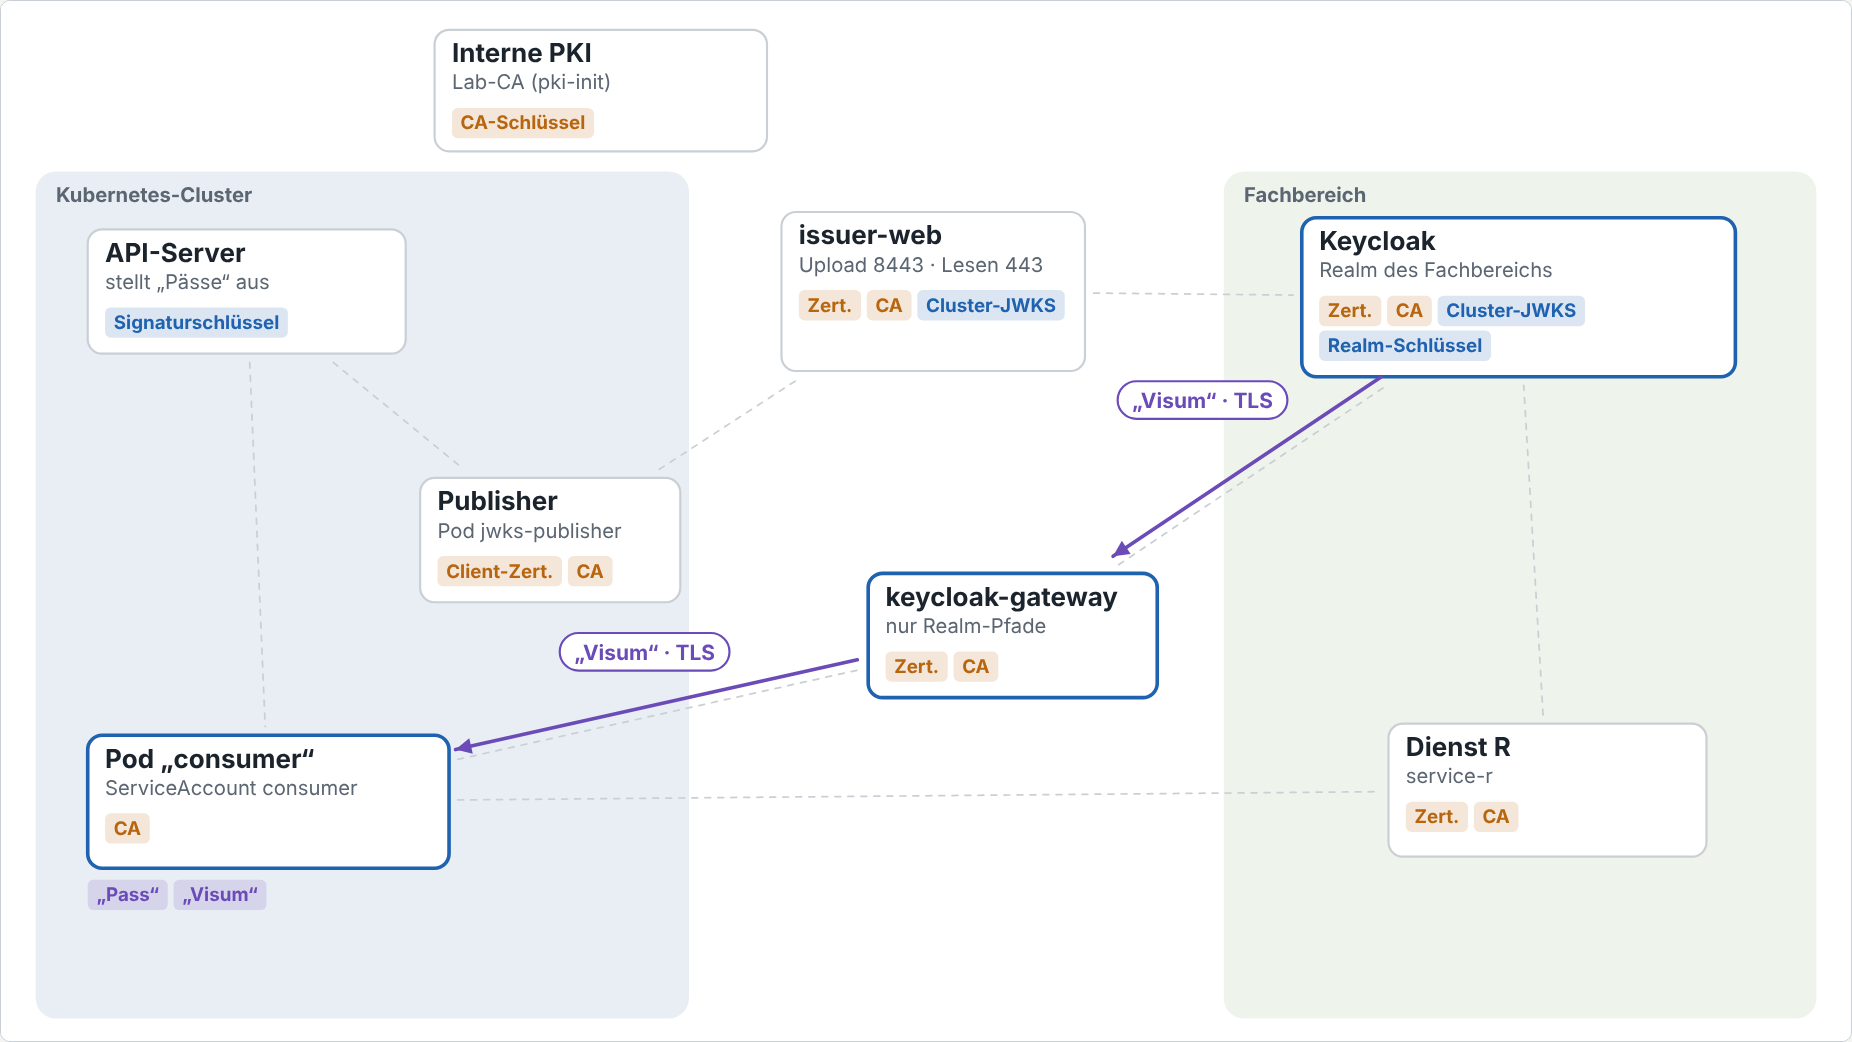
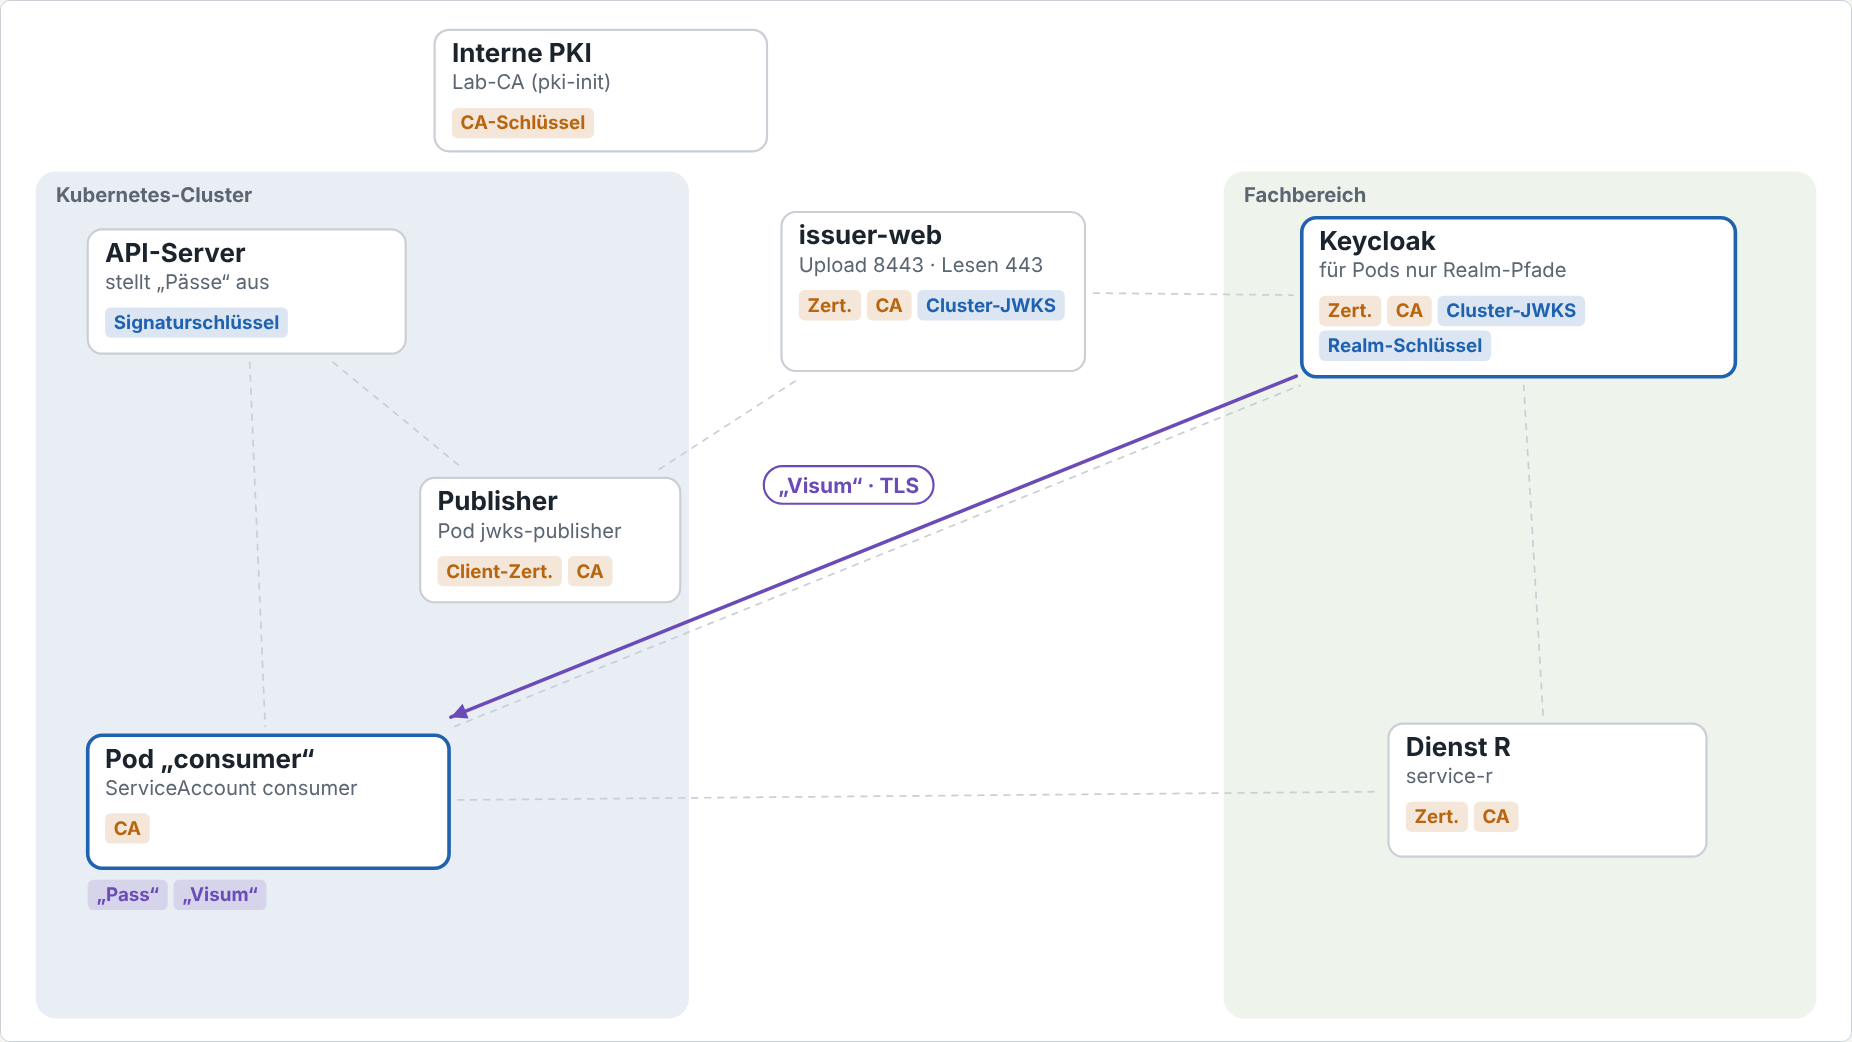
docs(praesentation): Keycloak und Gateway in Animation und Hauptteil zusammenlegen
- Animation: ein Kasten Keycloak, das Gateway wird in Schritt 6 erwähnt
- Architektur-Folie: Gateway nur noch als Hinweis, Details im Anhang

diff --git a/docs/praesentation/animation/index.html b/docs/praesentation/animation/index.html
@@ -127,8 +127,7 @@ const N = {
   pub: { x: 290, y: 330, w: 180, h: 86, t: "Publisher", s: "Pod jwks-publisher" },
   pod: { x: 60,  y: 508, w: 250, h: 92, t: "Pod „consumer“", s: "ServiceAccount consumer" },
   iss: { x: 540, y: 146, w: 210, h: 110, t: "issuer-web", s: "Upload 8443 · Lesen 443" },
-  gw:  { x: 600, y: 396, w: 200, h: 86, t: "keycloak-gateway", s: "nur Realm-Pfade" },
-  kc:  { x: 900, y: 150, w: 300, h: 110, t: "Keycloak", s: "Realm des Fachbereichs" },
+  kc:  { x: 900, y: 150, w: 300, h: 110, t: "Keycloak", s: "für Pods nur Realm-Pfade" },
   r:   { x: 960, y: 500, w: 220, h: 92, t: "Dienst R", s: "service-r" }
 };
 const ZONES = [
@@ -148,14 +147,14 @@ const STEPS = [
   { ph: 0, title: "Überblick: „Pass“, „Visum“, Aufruf",
     text: "Der Pod bekommt vom Cluster einen „Pass“, tauscht ihn bei Keycloak seines Fachbereichs gegen ein „Visum“ und ruft damit Dienst R auf. Im Pod liegt dafür weder ein Passwort noch ein Client-Zertifikat. Die folgenden Schritte zeigen, was im Hintergrund nötig ist, damit das sicher funktioniert.",
     il: "", inspect: "",
-    segs: [par(mv("api", "pod", "„Pass“", "token"), mv("pod", "gw", "„Pass“ zeigen", "token"), mv("gw", "kc", "", "token"), mv("kc", "gw", "", "token"), mv("gw", "pod", "„Visum“", "token"), mv("pod", "r", "„Visum“ zeigen", "token"))],
+    segs: [par(mv("api", "pod", "„Pass“", "token"), mv("pod", "kc", "„Pass“ zeigen", "token"), mv("kc", "pod", "„Visum“", "token"), mv("pod", "r", "„Visum“ zeigen", "token"))],
     fx: null },
 
   { ph: 1, title: "Die interne PKI sichert die Verbindungen",
-    text: "Die interne PKI (im Lab: pki-init) stellt Serverzertifikate für issuer-web, das Gateway, Keycloak und Dienst R aus. Alle, die eine Gegenstelle prüfen, bekommen das Root-Zertifikat der CA fest hinterlegt. Das einzige Client-Zertifikat erhält der Publisher – eine Infrastruktur-Komponente, nicht jede Workload. Wichtig: Die PKI sichert nur die Verbindungen (TLS). Wer der Pod ist, steht später im „Pass“, nicht in einem Zertifikat.",
-    il: "Wer bekommt was", inspect: "issuer-web  Server-Zert. + Root-CA\nGateway     Server-Zert. + Root-CA\nKeycloak    Server-Zert. + Root-CA\nDienst R    Server-Zert. + Root-CA\nPublisher   Client-Zert. + Root-CA\nPod         nur Root-CA\n(Pfeile im Bild vereinfacht)",
-    segs: [par(mv("pki", "iss", "", "trust"), mv("pki", "gw", "", "trust"), mv("pki", "kc", "", "trust"), mv("pki", "pub", "Client-Zert.", "trust", undefined, true))],
-    fx: s => { ["iss", "kc", "gw", "r"].forEach(n => s.cert.add(n)); ["iss", "pub", "pod", "gw", "kc", "r"].forEach(n => s.ca.add(n)); s.clientCert = true; } },
+    text: "Die interne PKI (im Lab: pki-init) stellt Serverzertifikate für issuer-web, Keycloak und Dienst R aus. Alle, die eine Gegenstelle prüfen, bekommen das Root-Zertifikat der CA fest hinterlegt. Das einzige Client-Zertifikat erhält der Publisher – eine Infrastruktur-Komponente, nicht jede Workload. Wichtig: Die PKI sichert nur die Verbindungen (TLS). Wer der Pod ist, steht später im „Pass“, nicht in einem Zertifikat.",
+    il: "Wer bekommt was", inspect: "issuer-web  Server-Zert. + Root-CA\nKeycloak    Server-Zert. + Root-CA\nDienst R    Server-Zert. + Root-CA\nPublisher   Client-Zert. + Root-CA\nPod         nur Root-CA\n(Pfeile im Bild vereinfacht)",
+    segs: [par(mv("pki", "iss", "", "trust"), mv("pki", "kc", "", "trust"), mv("pki", "pub", "Client-Zert.", "trust", undefined, true))],
+    fx: s => { ["iss", "kc", "r"].forEach(n => s.cert.add(n)); ["iss", "pub", "pod", "kc", "r"].forEach(n => s.ca.add(n)); s.clientCert = true; } },
   { ph: 1, title: "Der Cluster signiert mit eigenem Schlüssel",
     text: "Der API-Server bekommt ein eigenes Schlüsselpaar für ServiceAccount-Tokens – es stammt nicht von der PKI. Mit dem privaten Schlüssel signiert er jeden „Pass“. Als Aussteller trägt er eine Adresse außerhalb des Clusters ein: issuer-web. Dort sollen Prüfer die öffentlichen Schlüssel finden.",
     il: "Startparameter des API-Servers", inspect: "service-account-issuer\n  = https://issuer-web\nservice-account-jwks-uri\n  = https://issuer-web/openid/v1/jwks",
@@ -174,9 +173,9 @@ const STEPS = [
     fx: s => { s.files.push("„Pass“"); } },
 
   { ph: 3, title: "Der Pod fragt bei Keycloak nach Rechten",
-    text: "Der Pod ruft Keycloak seines Fachbereichs auf. Statt Passwort oder Client-Zertifikat legt er seinen „Pass“ vor und nennt die Rechte (Scopes), die er für Dienst R möchte. Der Name keycloak zeigt im Pod auf ein Gateway: Es lässt nur Anfragen an den Bereich (Realm) des Fachbereichs durch, die Verwaltung von Keycloak bleibt für Pods unerreichbar.",
+    text: "Der Pod ruft Keycloak seines Fachbereichs auf. Statt Passwort oder Client-Zertifikat legt er seinen „Pass“ vor und nennt die Rechte (Scopes), die er für Dienst R möchte. Vor Keycloak sitzt ein Gateway (im Bild nicht eigens gezeigt): Es lässt nur Anfragen an den Bereich (Realm) des Fachbereichs durch, die Verwaltung von Keycloak bleibt für Pods unerreichbar.",
     il: "Anfrage (gekürzt)", inspect: "POST …/realms/domain-rst/…/token\ngrant_type=client_credentials\n  ← Rechte für die Workload selbst\nclient_assertion=<„Pass“>\n  ← der Nachweis\nscope=r:orders:read r:orders:write\n  ← „r:“ steht für Dienst R",
-    segs: [mv("pod", "gw", "POST /token · TLS", "token"), chk("gw", ["nur Realm des Fachbereichs"], "below"), mv("gw", "kc", "POST /token · TLS", "token")], fx: null },
+    segs: [mv("pod", "kc", "POST /token · TLS", "token"), chk("kc", ["Gateway: nur Realm-Pfade"], "below")], fx: null },
   { ph: 3, title: "Keycloak holt die Schlüssel des Clusters",
     text: "Im „Pass“ steht als Aussteller https://issuer-web. Diesen Aussteller hat der Fachbereich in seinem Realm als vertrauenswürdig eingetragen – das ist das Gegenstück zu „wir vertrauen dieser CA“. Keycloak lädt die öffentlichen Schlüssel bei issuer-web und merkt sie sich. Beim Cluster fragt Keycloak nie nach.",
     il: "Eintrag im Realm", inspect: "Vertrauenswürdiger Aussteller\n„lab-cluster“:\n  Issuer:\n    https://issuer-web\n  Schlüssel:\n    https://issuer-web/openid/v1/jwks",
@@ -189,7 +188,7 @@ const STEPS = [
   { ph: 3, title: "Keycloak stellt das „Visum“ aus",
     text: "Das Access-Token ist das „Visum“. Es enthält nur Scopes, die der Fachbereich dem Client zugeordnet hat, gilt nur für Dienst R und nur 300 Sekunden. Signiert ist es mit dem Schlüssel des Realms. Der Pod hebt es auf und holt erst ein neues, wenn weniger als 60 Sekunden übrig sind.",
     il: "Inhalt des „Visums“", inspect: "iss (Aussteller): Keycloak-Realm\naud (für wen): service-r = Dienst R\nazp (Client): workload-a\nscope (Rechte):\n  r:orders:read r:orders:write\nexp (Ablauf): Ausstellung + 300 s",
-    segs: [mv("kc", "gw", "„Visum“ · TLS", "token"), mv("gw", "pod", "„Visum“ · TLS", "token")],
+    segs: [mv("kc", "pod", "„Visum“ · TLS", "token")],
     fx: s => { s.files.push("„Visum“"); } },
 
   { ph: 4, title: "Aufruf von Dienst R",
@@ -392,7 +391,7 @@ const sketch = p => {
       p.text(z.label, z.x + 14, z.y + 10); p.textStyle(p.NORMAL);
     });
   }
-  const LINKS = [["api", "pub"], ["pub", "iss"], ["api", "pod"], ["iss", "kc"], ["pod", "gw"], ["gw", "kc"], ["pod", "r"], ["r", "kc"]];
+  const LINKS = [["api", "pub"], ["pub", "iss"], ["api", "pod"], ["iss", "kc"], ["pod", "kc"], ["pod", "r"], ["r", "kc"]];
   function staticLinks() {
     p.stroke(col("line")); p.strokeWeight(1.2);
     p.drawingContext.setLineDash([4, 5]);

diff --git a/docs/praesentation/offline/animation.html b/docs/praesentation/offline/animation.html
@@ -132,8 +132,7 @@ const N = {
   pub: { x: 290, y: 330, w: 180, h: 86, t: "Publisher", s: "Pod jwks-publisher" },
   pod: { x: 60,  y: 508, w: 250, h: 92, t: "Pod „consumer“", s: "ServiceAccount consumer" },
   iss: { x: 540, y: 146, w: 210, h: 110, t: "issuer-web", s: "Upload 8443 · Lesen 443" },
-  gw:  { x: 600, y: 396, w: 200, h: 86, t: "keycloak-gateway", s: "nur Realm-Pfade" },
-  kc:  { x: 900, y: 150, w: 300, h: 110, t: "Keycloak", s: "Realm des Fachbereichs" },
+  kc:  { x: 900, y: 150, w: 300, h: 110, t: "Keycloak", s: "für Pods nur Realm-Pfade" },
   r:   { x: 960, y: 500, w: 220, h: 92, t: "Dienst R", s: "service-r" }
 };
 const ZONES = [
@@ -153,14 +152,14 @@ const STEPS = [
   { ph: 0, title: "Überblick: „Pass“, „Visum“, Aufruf",
     text: "Der Pod bekommt vom Cluster einen „Pass“, tauscht ihn bei Keycloak seines Fachbereichs gegen ein „Visum“ und ruft damit Dienst R auf. Im Pod liegt dafür weder ein Passwort noch ein Client-Zertifikat. Die folgenden Schritte zeigen, was im Hintergrund nötig ist, damit das sicher funktioniert.",
     il: "", inspect: "",
-    segs: [par(mv("api", "pod", "„Pass“", "token"), mv("pod", "gw", "„Pass“ zeigen", "token"), mv("gw", "kc", "", "token"), mv("kc", "gw", "", "token"), mv("gw", "pod", "„Visum“", "token"), mv("pod", "r", "„Visum“ zeigen", "token"))],
+    segs: [par(mv("api", "pod", "„Pass“", "token"), mv("pod", "kc", "„Pass“ zeigen", "token"), mv("kc", "pod", "„Visum“", "token"), mv("pod", "r", "„Visum“ zeigen", "token"))],
     fx: null },
 
   { ph: 1, title: "Die interne PKI sichert die Verbindungen",
-    text: "Die interne PKI (im Lab: pki-init) stellt Serverzertifikate für issuer-web, das Gateway, Keycloak und Dienst R aus. Alle, die eine Gegenstelle prüfen, bekommen das Root-Zertifikat der CA fest hinterlegt. Das einzige Client-Zertifikat erhält der Publisher – eine Infrastruktur-Komponente, nicht jede Workload. Wichtig: Die PKI sichert nur die Verbindungen (TLS). Wer der Pod ist, steht später im „Pass“, nicht in einem Zertifikat.",
-    il: "Wer bekommt was", inspect: "issuer-web  Server-Zert. + Root-CA\nGateway     Server-Zert. + Root-CA\nKeycloak    Server-Zert. + Root-CA\nDienst R    Server-Zert. + Root-CA\nPublisher   Client-Zert. + Root-CA\nPod         nur Root-CA\n(Pfeile im Bild vereinfacht)",
-    segs: [par(mv("pki", "iss", "", "trust"), mv("pki", "gw", "", "trust"), mv("pki", "kc", "", "trust"), mv("pki", "pub", "Client-Zert.", "trust", undefined, true))],
-    fx: s => { ["iss", "kc", "gw", "r"].forEach(n => s.cert.add(n)); ["iss", "pub", "pod", "gw", "kc", "r"].forEach(n => s.ca.add(n)); s.clientCert = true; } },
+    text: "Die interne PKI (im Lab: pki-init) stellt Serverzertifikate für issuer-web, Keycloak und Dienst R aus. Alle, die eine Gegenstelle prüfen, bekommen das Root-Zertifikat der CA fest hinterlegt. Das einzige Client-Zertifikat erhält der Publisher – eine Infrastruktur-Komponente, nicht jede Workload. Wichtig: Die PKI sichert nur die Verbindungen (TLS). Wer der Pod ist, steht später im „Pass“, nicht in einem Zertifikat.",
+    il: "Wer bekommt was", inspect: "issuer-web  Server-Zert. + Root-CA\nKeycloak    Server-Zert. + Root-CA\nDienst R    Server-Zert. + Root-CA\nPublisher   Client-Zert. + Root-CA\nPod         nur Root-CA\n(Pfeile im Bild vereinfacht)",
+    segs: [par(mv("pki", "iss", "", "trust"), mv("pki", "kc", "", "trust"), mv("pki", "pub", "Client-Zert.", "trust", undefined, true))],
+    fx: s => { ["iss", "kc", "r"].forEach(n => s.cert.add(n)); ["iss", "pub", "pod", "kc", "r"].forEach(n => s.ca.add(n)); s.clientCert = true; } },
   { ph: 1, title: "Der Cluster signiert mit eigenem Schlüssel",
     text: "Der API-Server bekommt ein eigenes Schlüsselpaar für ServiceAccount-Tokens – es stammt nicht von der PKI. Mit dem privaten Schlüssel signiert er jeden „Pass“. Als Aussteller trägt er eine Adresse außerhalb des Clusters ein: issuer-web. Dort sollen Prüfer die öffentlichen Schlüssel finden.",
     il: "Startparameter des API-Servers", inspect: "service-account-issuer\n  = https://issuer-web\nservice-account-jwks-uri\n  = https://issuer-web/openid/v1/jwks",
@@ -179,9 +178,9 @@ const STEPS = [
     fx: s => { s.files.push("„Pass“"); } },
 
   { ph: 3, title: "Der Pod fragt bei Keycloak nach Rechten",
-    text: "Der Pod ruft Keycloak seines Fachbereichs auf. Statt Passwort oder Client-Zertifikat legt er seinen „Pass“ vor und nennt die Rechte (Scopes), die er für Dienst R möchte. Der Name keycloak zeigt im Pod auf ein Gateway: Es lässt nur Anfragen an den Bereich (Realm) des Fachbereichs durch, die Verwaltung von Keycloak bleibt für Pods unerreichbar.",
+    text: "Der Pod ruft Keycloak seines Fachbereichs auf. Statt Passwort oder Client-Zertifikat legt er seinen „Pass“ vor und nennt die Rechte (Scopes), die er für Dienst R möchte. Vor Keycloak sitzt ein Gateway (im Bild nicht eigens gezeigt): Es lässt nur Anfragen an den Bereich (Realm) des Fachbereichs durch, die Verwaltung von Keycloak bleibt für Pods unerreichbar.",
     il: "Anfrage (gekürzt)", inspect: "POST …/realms/domain-rst/…/token\ngrant_type=client_credentials\n  ← Rechte für die Workload selbst\nclient_assertion=<„Pass“>\n  ← der Nachweis\nscope=r:orders:read r:orders:write\n  ← „r:“ steht für Dienst R",
-    segs: [mv("pod", "gw", "POST /token · TLS", "token"), chk("gw", ["nur Realm des Fachbereichs"], "below"), mv("gw", "kc", "POST /token · TLS", "token")], fx: null },
+    segs: [mv("pod", "kc", "POST /token · TLS", "token"), chk("kc", ["Gateway: nur Realm-Pfade"], "below")], fx: null },
   { ph: 3, title: "Keycloak holt die Schlüssel des Clusters",
     text: "Im „Pass“ steht als Aussteller https://issuer-web. Diesen Aussteller hat der Fachbereich in seinem Realm als vertrauenswürdig eingetragen – das ist das Gegenstück zu „wir vertrauen dieser CA“. Keycloak lädt die öffentlichen Schlüssel bei issuer-web und merkt sie sich. Beim Cluster fragt Keycloak nie nach.",
     il: "Eintrag im Realm", inspect: "Vertrauenswürdiger Aussteller\n„lab-cluster“:\n  Issuer:\n    https://issuer-web\n  Schlüssel:\n    https://issuer-web/openid/v1/jwks",
@@ -194,7 +193,7 @@ const STEPS = [
   { ph: 3, title: "Keycloak stellt das „Visum“ aus",
     text: "Das Access-Token ist das „Visum“. Es enthält nur Scopes, die der Fachbereich dem Client zugeordnet hat, gilt nur für Dienst R und nur 300 Sekunden. Signiert ist es mit dem Schlüssel des Realms. Der Pod hebt es auf und holt erst ein neues, wenn weniger als 60 Sekunden übrig sind.",
     il: "Inhalt des „Visums“", inspect: "iss (Aussteller): Keycloak-Realm\naud (für wen): service-r = Dienst R\nazp (Client): workload-a\nscope (Rechte):\n  r:orders:read r:orders:write\nexp (Ablauf): Ausstellung + 300 s",
-    segs: [mv("kc", "gw", "„Visum“ · TLS", "token"), mv("gw", "pod", "„Visum“ · TLS", "token")],
+    segs: [mv("kc", "pod", "„Visum“ · TLS", "token")],
     fx: s => { s.files.push("„Visum“"); } },
 
   { ph: 4, title: "Aufruf von Dienst R",
@@ -397,7 +396,7 @@ const sketch = p => {
       p.text(z.label, z.x + 14, z.y + 10); p.textStyle(p.NORMAL);
     });
   }
-  const LINKS = [["api", "pub"], ["pub", "iss"], ["api", "pod"], ["iss", "kc"], ["pod", "gw"], ["gw", "kc"], ["pod", "r"], ["r", "kc"]];
+  const LINKS = [["api", "pub"], ["pub", "iss"], ["api", "pod"], ["iss", "kc"], ["pod", "kc"], ["pod", "r"], ["r", "kc"]];
   function staticLinks() {
     p.stroke(col("line")); p.strokeWeight(1.2);
     p.drawingContext.setLineDash([4, 5]);

diff --git a/docs/praesentation/offline/index.html b/docs/praesentation/offline/index.html
@@ -321,14 +321,14 @@ section.cover { justify-content: center; gap: 28px; }
 <x-connector class="ln" x1="1384" y1="400" x2="1384" y2="200"></x-connector>
 <p class="lbl" style="left:216px; top:270px; width:280px">Token, 10 min</p>
 <p class="lbl" style="left:856px; top:60px; width:232px">PUT per mTLS (Port 8443)</p>
-<p class="lbl" style="left:856px; top:390px; width:232px">POST /token über keycloak-gateway</p>
+<p class="lbl" style="left:856px; top:390px; width:232px">POST /token, TLS</p>
 <p class="lbl" style="left:1400px; top:260px; width:264px">GET Discovery + JWKS, TLS</p>
 <p class="warn" style="left:856px; top:226px; width:232px">kein Netzweg von Keycloak zum API-Server</p>
 </div>
 <ul class="pts">
 <li>Keycloak darf den API-Server nicht erreichen – darum bringt der Publisher die öffentlichen Schlüssel nach außen zu issuer-web</li>
 <li>Schreiben darf nur der Publisher, per mTLS: ein einziges Infrastruktur-Zertifikat statt eines pro Workload</li>
-<li>Pods erreichen Keycloak nur über keycloak-gateway, das nur die Realm-Pfade durchlässt</li>
+<li>Pods erreichen bei Keycloak nur die Realm-Pfade, nicht die Verwaltung (im Lab sitzt dazu ein Gateway davor)</li>
 </ul>
 <aside>Der Publisher ist ein Pod im Cluster mit der eingebauten Rolle system:service-account-issuer-discovery. Alle 15 Sekunden vergleicht er das JWKS des API-Servers mit dem, was issuer-web ausliefert, und lädt nur bei Abweichung hoch. Den Upload-Port 8443 erreicht man nur aus dem Cluster-Netz, und nginx verlangt ein Client-Zertifikat der internen CA mit genau CN=jwks-publisher. Der Pod erreicht Keycloak nur über keycloak-gateway, das ausschließlich die Realm-Pfade weiterleitet.</aside>
 </section>

diff --git a/docs/praesentation/slides/architektur.html b/docs/praesentation/slides/architektur.html
@@ -23,14 +23,14 @@
 <x-connector class="ln" x1="1384" y1="400" x2="1384" y2="200"></x-connector>
 <p class="lbl" style="left:216px; top:270px; width:280px">Token, 10 min</p>
 <p class="lbl" style="left:856px; top:60px; width:232px">PUT per mTLS (Port 8443)</p>
-<p class="lbl" style="left:856px; top:390px; width:232px">POST /token über keycloak-gateway</p>
+<p class="lbl" style="left:856px; top:390px; width:232px">POST /token, TLS</p>
 <p class="lbl" style="left:1400px; top:260px; width:264px">GET Discovery + JWKS, TLS</p>
 <p class="warn" style="left:856px; top:226px; width:232px">kein Netzweg von Keycloak zum API-Server</p>
 </div>
 <ul class="pts">
 <li>Keycloak darf den API-Server nicht erreichen – darum bringt der Publisher die öffentlichen Schlüssel nach außen zu issuer-web</li>
 <li>Schreiben darf nur der Publisher, per mTLS: ein einziges Infrastruktur-Zertifikat statt eines pro Workload</li>
-<li>Pods erreichen Keycloak nur über keycloak-gateway, das nur die Realm-Pfade durchlässt</li>
+<li>Pods erreichen bei Keycloak nur die Realm-Pfade, nicht die Verwaltung (im Lab sitzt dazu ein Gateway davor)</li>
 </ul>
 <aside>Der Publisher ist ein Pod im Cluster mit der eingebauten Rolle system:service-account-issuer-discovery. Alle 15 Sekunden vergleicht er das JWKS des API-Servers mit dem, was issuer-web ausliefert, und lädt nur bei Abweichung hoch. Den Upload-Port 8443 erreicht man nur aus dem Cluster-Netz, und nginx verlangt ein Client-Zertifikat der internen CA mit genau CN=jwks-publisher. Der Pod erreicht Keycloak nur über keycloak-gateway, das ausschließlich die Realm-Pfade weiterleitet.</aside>
 </section>

diff --git a/docs/praesentation/slides/gesamtablauf.html b/docs/praesentation/slides/gesamtablauf.html
@@ -1,7 +1,7 @@
 <section id="gesamtablauf">
 <h2>Gesamtablauf Schritt für Schritt (Animation)</h2>
 <div style="display:flex; gap:64px; align-items:flex-start">
-<img src="/_blob/a480e9953ca6f057bea33f908486b139" alt="Standbild der Animation, Schritt 9: Keycloak schickt das „Visum“ über das Gateway an den Pod" style="width:1100px;height:619px;object-fit:contain;border:2px solid #c9cfd5;border-radius:12px;background:#ffffff;transform:translate(163px, 0)">
+<img src="/_blob/571d324bee66649c9daafa33274d7317" alt="Standbild der Animation, Schritt 9: Keycloak schickt das „Visum“ an den Pod" style="width:1100px;height:619px;object-fit:contain;border:2px solid #c9cfd5;border-radius:12px;background:#ffffff;transform:translate(163px, 0)">
 <div class="col" style="width:500px">
 <p class="colh">16 Schritte, jeder per Klick</p>
 <ol class="pts">
